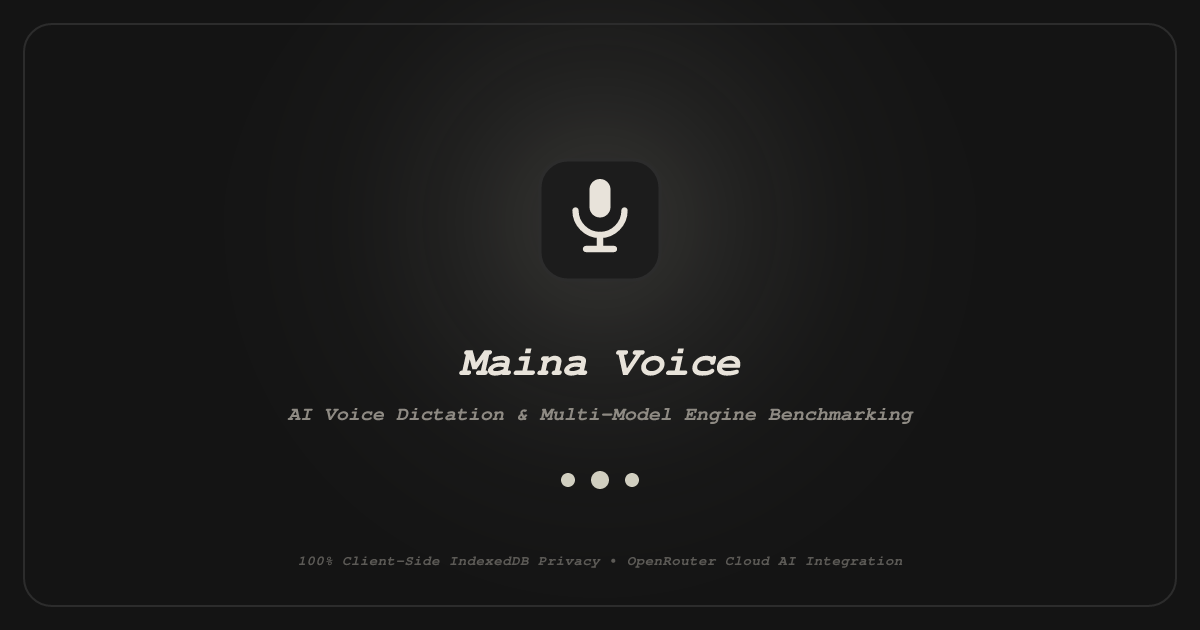
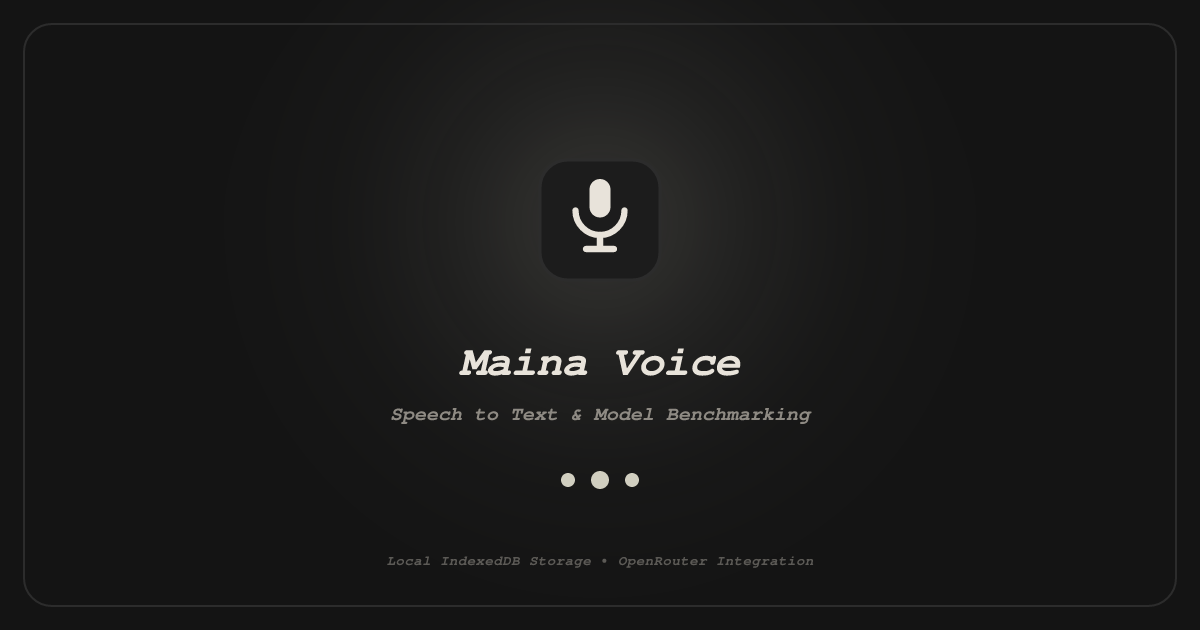
style: humanize PWA manifest, OpenGraph, Twitter cards, and JSON-LD schema metadata

Changed region(s): [[0.2467, 0.6333, 0.7708, 0.6635], [0.2467, 0.8746, 0.74, 0.9048]]

diff --git a/scripts/generate-icons.js b/scripts/generate-icons.js
@@ -60,7 +60,7 @@ const splashOgDark = `<svg xmlns="http://www.w3.org/2000/svg" viewBox="0 0 1200 
 
   <!-- Typography -->
   <text x="600" y="375" text-anchor="middle" font-family="Inter, system-ui, -apple-system, sans-serif" font-size="44" font-weight="800" fill="#e8e3da" letter-spacing="-1">Maina Voice</text>
-  <text x="600" y="420" text-anchor="middle" font-family="Inter, system-ui, -apple-system, sans-serif" font-size="20" font-weight="500" fill="#8e8a83" letter-spacing="0">AI Voice Dictation &amp; Multi-Model Engine Benchmarking</text>
+  <text x="600" y="420" text-anchor="middle" font-family="Inter, system-ui, -apple-system, sans-serif" font-size="20" font-weight="500" fill="#8e8a83" letter-spacing="0">Speech to Text &amp; Model Benchmarking</text>
 
   <!-- Loading Dots -->
   <g transform="translate(600, 480)">
@@ -69,7 +69,7 @@ const splashOgDark = `<svg xmlns="http://www.w3.org/2000/svg" viewBox="0 0 1200 
     <circle cx="32" cy="0" r="7" fill="#d1cfc0"/>
   </g>
 
-  <text x="600" y="565" text-anchor="middle" font-family="Inter, system-ui, -apple-system, sans-serif" font-size="14" font-weight="600" fill="#5c5a56" letter-spacing="0.5">100% Client-Side IndexedDB Privacy • OpenRouter Cloud AI Integration</text>
+  <text x="600" y="565" text-anchor="middle" font-family="Inter, system-ui, -apple-system, sans-serif" font-size="14" font-weight="600" fill="#5c5a56" letter-spacing="0.5">Local IndexedDB Storage • OpenRouter Integration</text>
 </svg>`
 
 // Generate Light Mode Splash-screen Styled OG Social Image (1200x630)
@@ -100,7 +100,7 @@ const splashOgLight = `<svg xmlns="http://www.w3.org/2000/svg" viewBox="0 0 1200
 
   <!-- Typography -->
   <text x="600" y="375" text-anchor="middle" font-family="Inter, system-ui, -apple-system, sans-serif" font-size="44" font-weight="800" fill="#1e1e1e" letter-spacing="-1">Maina Voice</text>
-  <text x="600" y="420" text-anchor="middle" font-family="Inter, system-ui, -apple-system, sans-serif" font-size="20" font-weight="500" fill="#5e5a52" letter-spacing="0">AI Voice Dictation &amp; Multi-Model Engine Benchmarking</text>
+  <text x="600" y="420" text-anchor="middle" font-family="Inter, system-ui, -apple-system, sans-serif" font-size="20" font-weight="500" fill="#5e5a52" letter-spacing="0">Speech to Text &amp; Model Benchmarking</text>
 
   <!-- Loading Dots -->
   <g transform="translate(600, 480)">
@@ -109,7 +109,7 @@ const splashOgLight = `<svg xmlns="http://www.w3.org/2000/svg" viewBox="0 0 1200
     <circle cx="32" cy="0" r="7" fill="#2e2e2e"/>
   </g>
 
-  <text x="600" y="565" text-anchor="middle" font-family="Inter, system-ui, -apple-system, sans-serif" font-size="14" font-weight="600" fill="#a89f8f" letter-spacing="0.5">100% Client-Side IndexedDB Privacy • OpenRouter Cloud AI Integration</text>
+  <text x="600" y="565" text-anchor="middle" font-family="Inter, system-ui, -apple-system, sans-serif" font-size="14" font-weight="600" fill="#a89f8f" letter-spacing="0.5">Local IndexedDB Storage • OpenRouter Integration</text>
 </svg>`
 
 const resvgDark = new Resvg(Buffer.from(splashOgDark), { fitTo: { mode: 'width', value: 1200 } })

diff --git a/index.html b/index.html
@@ -27,16 +27,16 @@
     <!-- Open Graph / Facebook / WhatsApp -->
     <meta property="og:type" content="website" />
     <meta property="og:url" content="https://mainavoice.app/" />
-    <meta property="og:title" content="Maina Voice — AI Voice Transcription & Engine Benchmarking" />
-    <meta property="og:description" content="Compare cloud speech AI engines side-by-side with relative latency ratios, Devanagari-to-Urdu transliteration, and local IndexedDB privacy." />
+    <meta property="og:title" content="Maina Voice — Speech to Text &amp; Model Benchmarking" />
+    <meta property="og:description" content="Compare speech-to-text engines side by side, measure latency, and keep recordings private with local IndexedDB storage." />
     <meta property="og:image" content="https://mainavoice.app/og-image.png" />
     <meta property="og:site_name" content="Maina Voice" />
 
     <!-- Twitter Cards -->
     <meta name="twitter:card" content="summary_large_image" />
     <meta name="twitter:url" content="https://mainavoice.app/" />
-    <meta name="twitter:title" content="Maina Voice — AI Voice Transcription & Engine Benchmarking" />
-    <meta name="twitter:description" content="Benchmarking multi-model speech AI with client-side privacy, audio version tracking, and OpenRouter integration." />
+    <meta name="twitter:title" content="Maina Voice — Speech to Text &amp; Model Benchmarking" />
+    <meta name="twitter:description" content="Speech to text dictation and multi-engine speed benchmarking with local IndexedDB privacy." />
     <meta name="twitter:image" content="https://mainavoice.app/og-image.png" />
 
     <!-- Google Web Fonts -->
@@ -57,13 +57,13 @@
         "price": "0",
         "priceCurrency": "USD"
       },
-      "description": "Native AI Voice Transcription & Multi-Engine Speed Benchmarking Desktop & Web Application featuring client-side IndexedDB data storage.",
+      "description": "Speech-to-text dictation and multi-model benchmarking app with local IndexedDB storage.",
       "featureList": [
-        "Single-Engine Audio Dictation",
-        "Dual & Multi-Engine Benchmarking Mode",
-        "Devanagari-to-Urdu Regional Transliteration",
-        "AI Transcript Translation via OpenRouter",
-        "Full ZIP Backup & Restore"
+        "Speech to text recording",
+        "Multi-engine speed comparison",
+        "Devanagari to Urdu transliteration",
+        "English translation via OpenRouter",
+        "ZIP file backup and restore"
       ]
     }
     </script>

diff --git a/vite.config.ts b/vite.config.ts
@@ -32,7 +32,7 @@ export default defineConfig(async () => ({
       manifest: {
         name: 'Maina Voice',
         short_name: 'MainaVoice',
-        description: 'Native AI Voice Transcription & Multi-Engine Benchmarking App. 100% Client-Side Data Privacy with IndexedDB and OpenRouter cloud AI integration.',
+        description: 'Speech-to-text dictation and multi-engine speed benchmarking with local IndexedDB storage.',
         theme_color: '#141414',
         background_color: '#141414',
         display: 'standalone',
